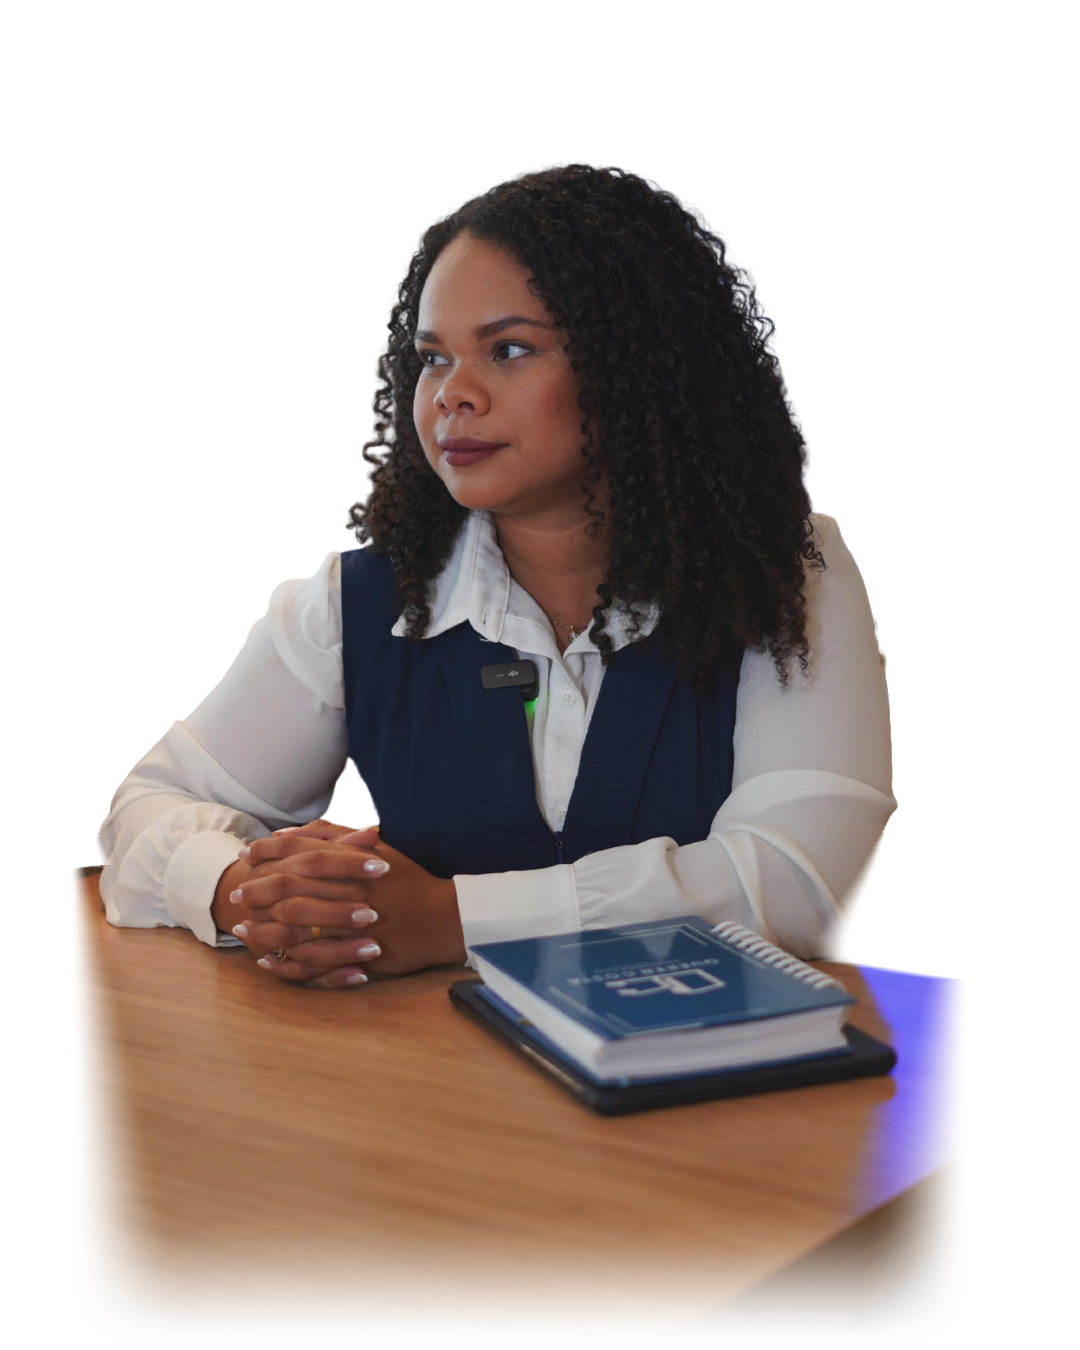
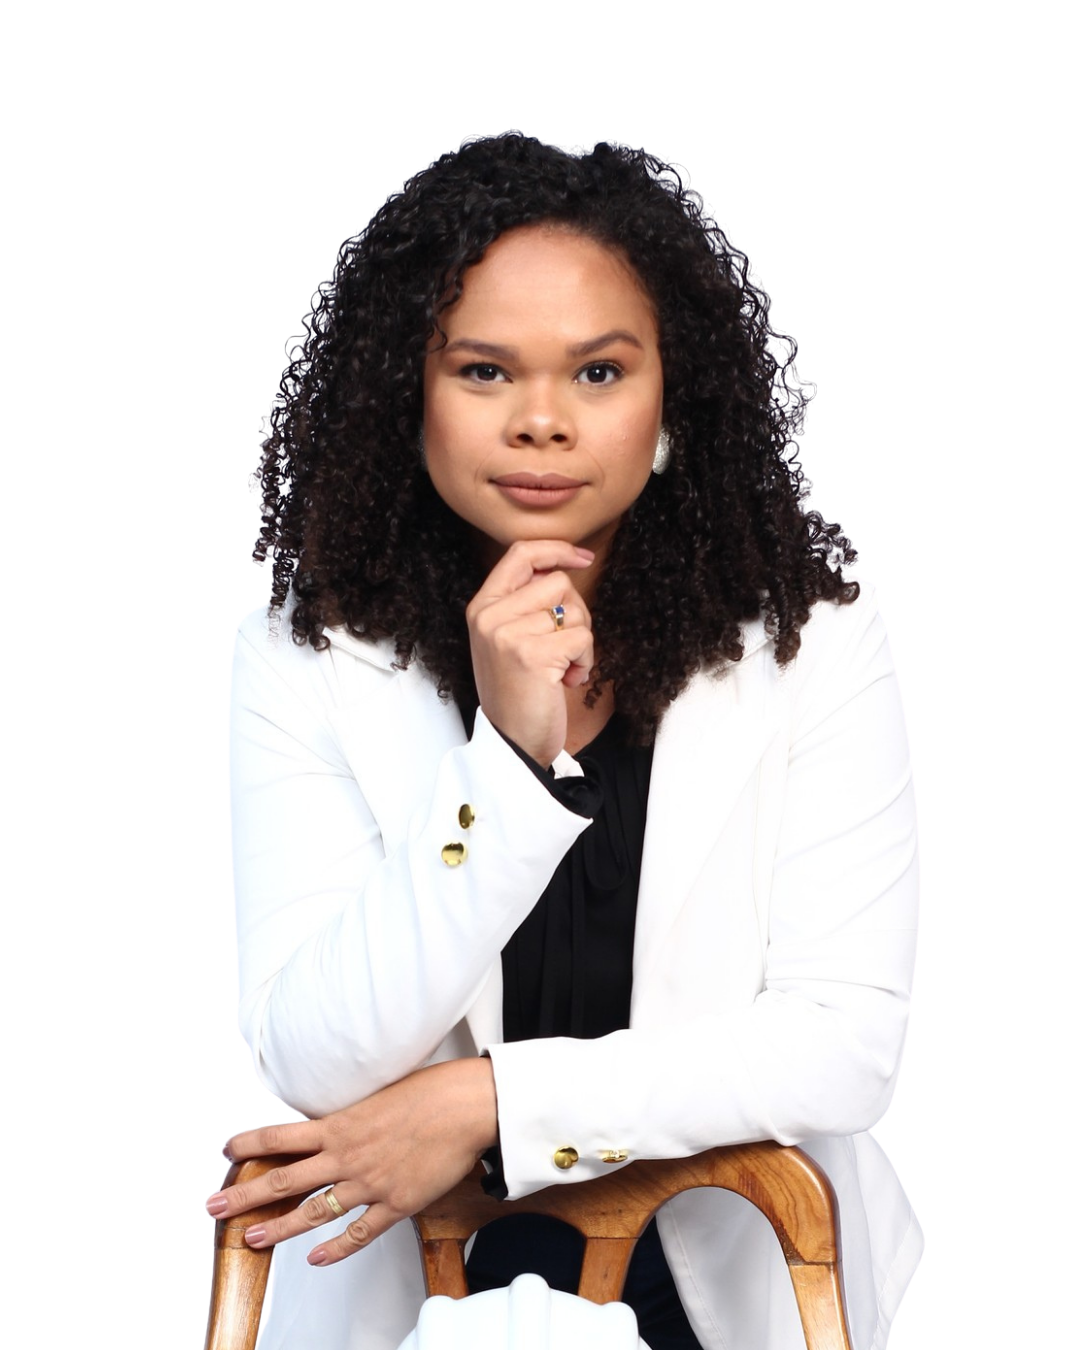
Nova capa: retrato da página de captura sobre faixa azul
Troca o PNG da hero pelo retrato novo, que já vem com o grafismo do QC
atrás e fundo transparente, e recria em CSS a faixa azul que na página de
captura foi montada no editor do Wix.

A faixa nasce dentro da seção com `inset-y-0`, então a altura é a da
seção por construção, sem valor fixo — que era a razão de ela ter sido
feita nativamente lá. O contêiner interno repete a geometria da grade
para ela começar na coluna do retrato, e sangra até a borda da tela, onde
o `overflow-hidden` da seção apara. O brilho difuso passou para depois
dela, para suavizar a aresta.

O retrato volta a ser ancorado na base, desfazendo a centralização
vertical de d4f2a8b. O motivo é a foto nova: ela termina rente à cadeira,
sem sobra transparente embaixo, então onde a caixa acaba aparece um corte
reto. Centralizada, esse corte ficava solto no meio da faixa. Ancorado, o
corte cai no fim da seção e a fita diagonal passa na frente dele. O mesmo
vale no celular, onde o corte também estava aparecendo.

Já existiu um painel atrás do retrato e ele foi removido por deixar a
pessoa dentro de uma caixa. Agora ela encosta na base da faixa em vez de
flutuar no meio, que é o que muda a leitura.

Claude-Session: https://claude.ai/code/session_01CNnYmHcnPBRZxwyTx3R8G5

diff --git a/app/meap/page.tsx b/app/meap/page.tsx
@@ -428,10 +428,33 @@ export default function MeapPage() {
         {/* Hero — duas colunas: texto à esquerda, retrato à direita sobre um
             painel mais escuro com o grafismo geométrico. */}
         <section className="relative overflow-hidden bg-[#1b243a]">
-          {/* Só um brilho difuso atrás do retrato. O painel escuro e o quadrado
-              vazado que existiam aqui recortavam um retângulo visível atrás da
-              foto, e como o PNG é vazado o resultado era a pessoa flutuando
-              dentro de uma caixa. Sem bordas, o fundo fica contínuo. */}
+          {/* Faixa azul atrás do retrato, como na página de captura.
+              
+              Ela é do tamanho da seção porque nasce aqui dentro, com
+              `inset-y-0` — quem garante a altura é o próprio contêiner, não um
+              valor fixo. O contêiner interno repete a geometria da grade
+              (`max-w-6xl px-4`) para a faixa começar exatamente na coluna do
+              retrato, e o `right-[-50vw]` a faz sangrar até a borda da tela,
+              onde o `overflow-hidden` da seção apara a sobra.
+
+              Já existiu um painel aqui antes, e ele foi removido porque
+              recortava um retângulo visível atrás da foto vazada: a pessoa
+              ficava flutuando dentro de uma caixa. O que muda agora é que ela
+              vaza a faixa pela esquerda e pelo pé, então a borda deixa de ser
+              lida como moldura. Se o retrato for trocado por um mais estreito,
+              esse efeito volta. */}
+          <div
+            aria-hidden
+            className="pointer-events-none absolute inset-0 hidden lg:block"
+          >
+            <div className="mx-auto h-full max-w-6xl px-4">
+              <div className="relative ml-auto h-full w-[36%]">
+                <div className="absolute inset-y-0 left-0 right-[-50vw] bg-[#2c375b]" />
+              </div>
+            </div>
+          </div>
+
+          {/* Brilho difuso, por cima da faixa para suavizar a aresta dela. */}
           <div
             aria-hidden
             className="pointer-events-none absolute inset-0 hidden lg:block"
@@ -503,26 +526,19 @@ export default function MeapPage() {
               </div>
             </div>
 
-            {/* O PNG é 4:5 e a coluna é 9/16, então o `cover` casa pela altura
-                e apara ~15% de cada lado. É de propósito: sobra a mesa saindo
-                pelas bordas e o grafismo do "QC" cortado atrás dela, que é o
-                que dá a sensação de a foto continuar para fora do quadro.
+            {/* O PNG é 4:5 e a caixa também, então o `cover` não apara nada —
+                ele fica para o caso de a foto ser trocada por uma de outra
+                proporção, e o `object-bottom` garante que o corte, se houver,
+                caia no topo e não nos pés.
 
-                A margem negativa desce a imagem para fora da área de
-                conteúdo, e o pé dela para onde o conteúdo da hero termina, logo
-                acima da fita, em vez de flutuar no meio da coluna. Ela é menor
-                que o padding de baixo porque parte desse padding é o respiro
-                que o bloco da faixa dava quando ainda ocupava altura própria.
-
-                Isso vale só até o `lg`; no desktop, onde a foto vira coluna ao
-                lado do texto, ela volta a respeitar o padding e centraliza na
-                vertical junto com o bloco de texto.
-
-                `sizes` é maior que a coluna porque, no `cover`, a imagem é
-                escalada pela altura e renderiza ~1,4x mais larga que o box —
-                pedir a largura do box devolveria um arquivo pequeno demais e a
-                foto sairia borrada. */}
-            <div className="relative mx-auto -mb-14 aspect-4/5 w-full max-w-[18rem] self-end sm:-mb-16 lg:mb-0 lg:ml-auto lg:mr-0 lg:max-w-[26rem] lg:self-center">
+                A margem negativa cancela o padding de baixo da seção: o pé da
+                imagem coincide com o fim da hero e a fita diagonal passa na
+                frente dela. Isso não é enfeite — o PNG termina rente à cadeira,
+                sem sobra transparente embaixo, então onde a caixa acaba aparece
+                um corte reto. Ancorar na base é o que esconde esse corte. Foi
+                por isso que a versão centralizada saiu: com a faixa atrás, o
+                corte ficava solto no meio dela. */}
+            <div className="relative mx-auto -mb-[8.5rem] aspect-4/5 w-full max-w-[18rem] self-end sm:-mb-[9rem] lg:-mb-40 lg:ml-auto lg:mr-0 lg:max-w-[26rem]">
               <Image
                 src={HERO.foto}
                 alt={HERO.fotoAlt}
